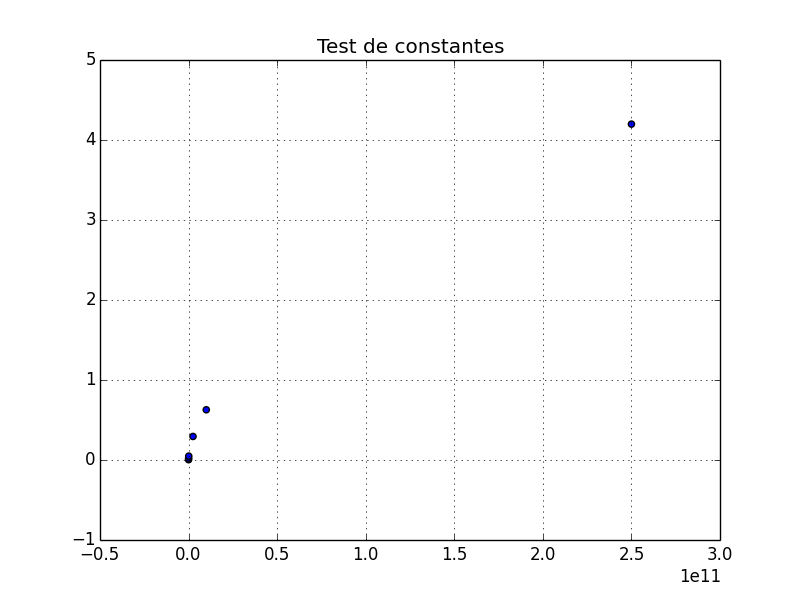
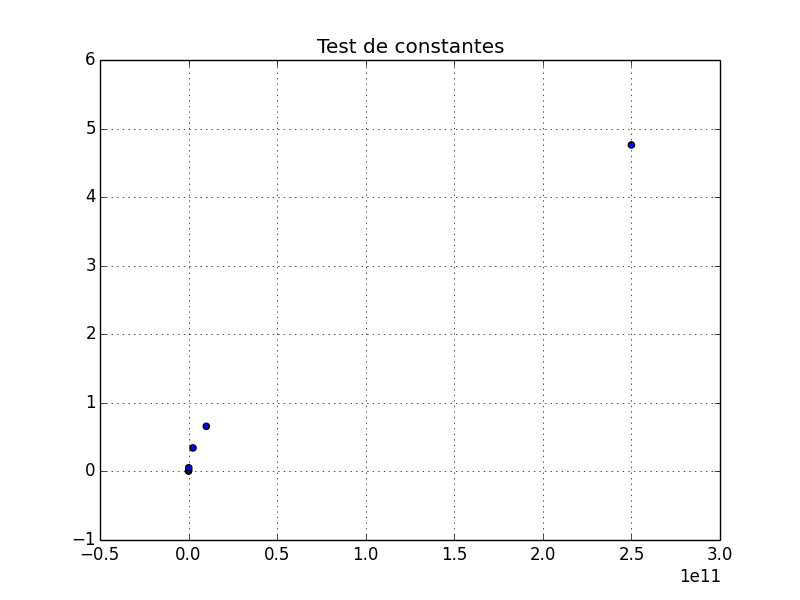
Ajout des graphe pour la serie 0_9

diff --git a/TP1/Analysis.py b/TP1/Analysis.py
@@ -27,7 +27,7 @@ taille = [1000, 5000, 10000, 50000, 100000, 500000]
 '''
 All set of data in all folder for all algorithme
 '''
-for s in range(1,2):
+for s in range(4,5):
     for m in range(0,1):
         print("Folder " + folder_data[m] + ":")
         avgArr = []
